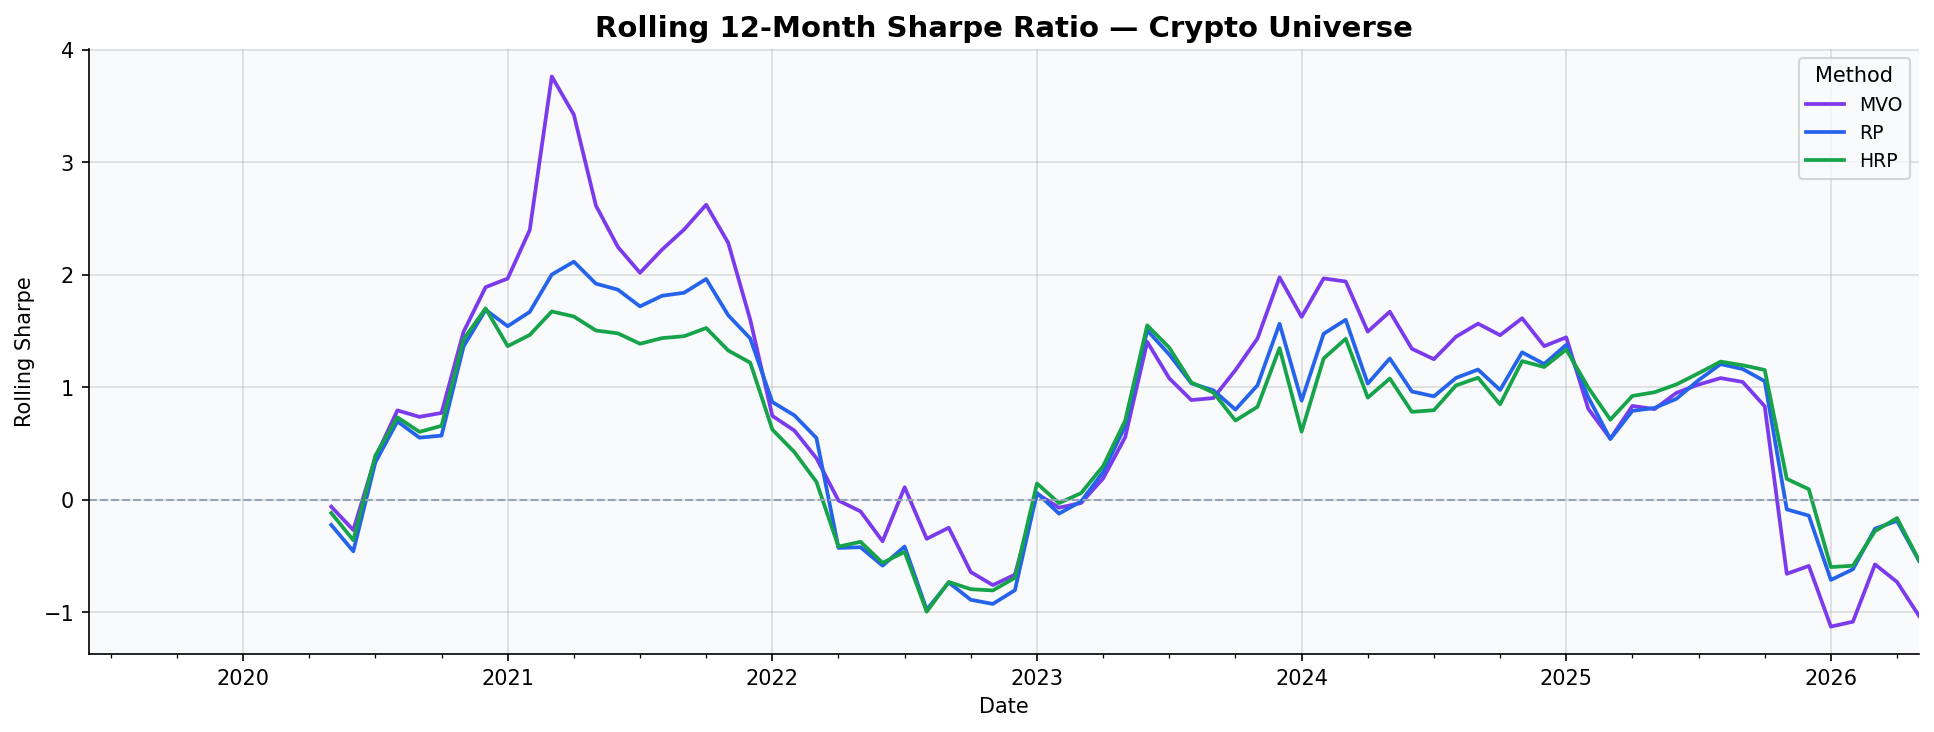
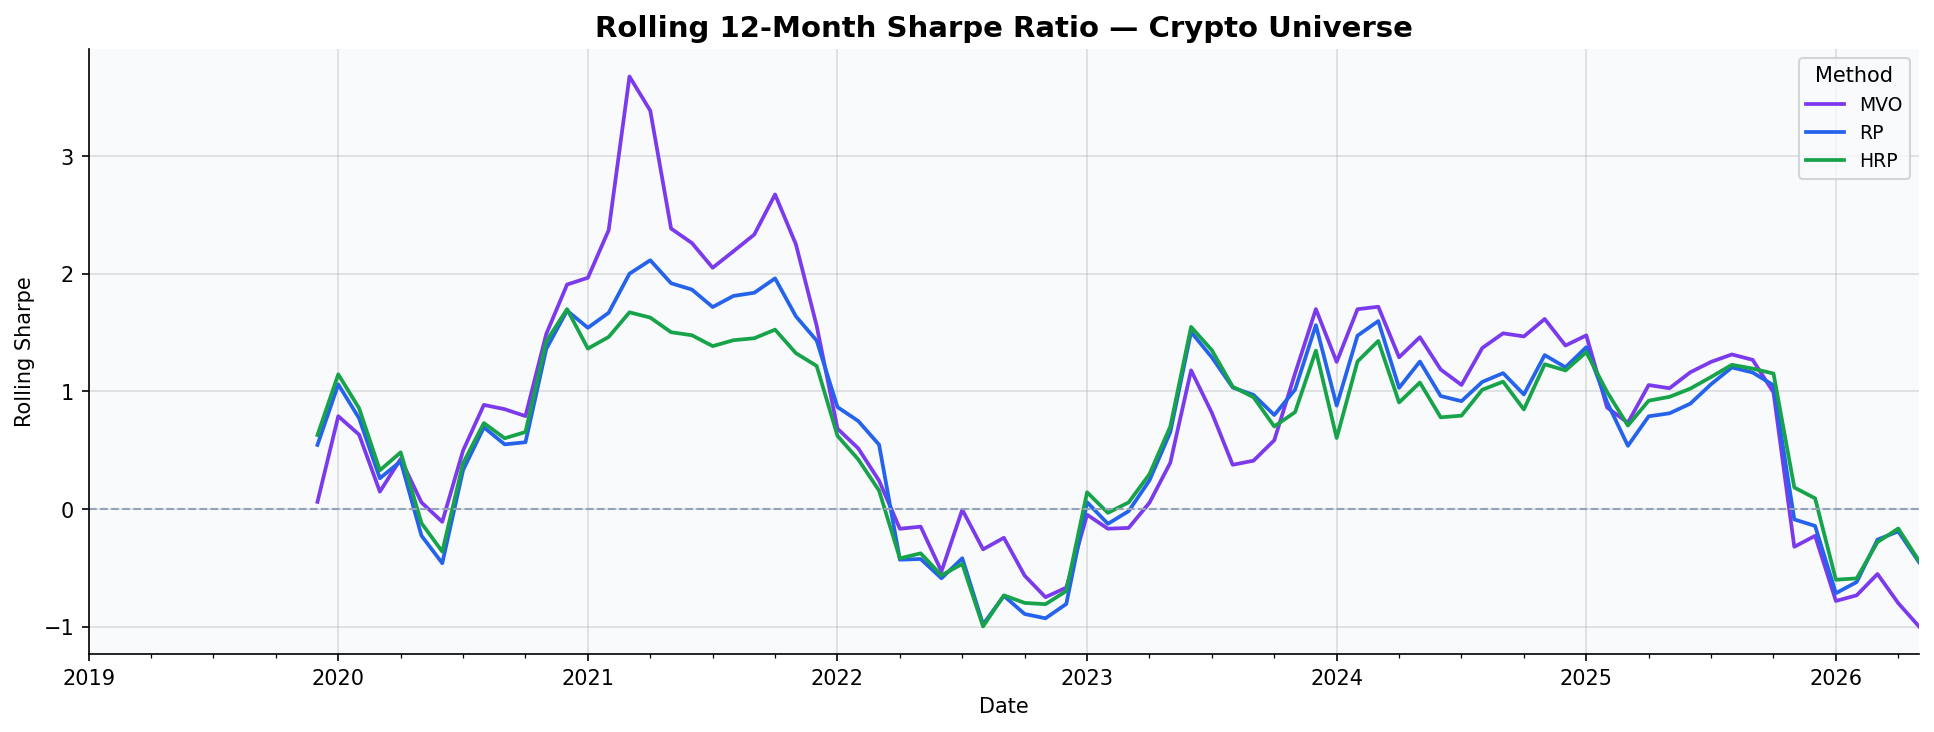
remove signal tilting calculation and validation plots

diff --git a/empirical_analysis.py b/empirical_analysis.py
@@ -9,9 +9,6 @@ from core import (
     download_prices,
     to_monthly_prices,
     compute_returns,
-    compute_momentum_signal,
-    compute_trend_signal,
-    combine_signals,
     run_backtest, 
     summary_table,
 )
@@ -62,194 +59,6 @@ def save_plot(filename):
     # plt.show()
     plt.close()
     print(f"  ✓ Saved: plots/{filename}")
-
-
-def print_signal_summary(combined_signal, momentum_signal, trend_signal, asset_labels, universe_name):
-    print("\n" + "═" * 60)
-    print(f"  SIGNAL VALIDATION — SUMMARY STATISTICS — {universe_name}")
-    print("═" * 60)
-
-    dispersion = combined_signal.std(axis=1)
-    ranks = combined_signal.rank(axis=1)
-    rank_chg = ranks.diff().abs().sum(axis=1).dropna()
-    avg_signal = combined_signal.mean(axis=1)
-
-    stats = {
-        "Mean combined signal":       avg_signal.mean(),
-        "Std combined signal (time)": avg_signal.std(),
-        "Mean cross-sect. dispersion": dispersion.mean(),
-        "Std cross-sect. dispersion":  dispersion.std(),
-        "Pct months signal > 0.5":    (avg_signal > 0.5).mean(),
-        "Mean ranking turnover":      rank_chg.mean(),
-        "Std ranking turnover":       rank_chg.std(),
-    }
-
-    for k, v in stats.items():
-        print(f"  {k:<38} {v:.4f}")
-
-    print("\n  Per-asset mean combined signal:")
-    per_asset = combined_signal.rename(columns=asset_labels).mean()
-    for asset, val in per_asset.items():
-        print(f"    {asset:<6}  {val:.4f}")
-
-    print("═" * 60 + "\n")
-
-
-# -----------------------------
-# 3. PLOTS (5.1 Signal Validation)
-# -----------------------------
-def plot_signal_heatmap(combined_signal, asset_labels, title, filename):
-    data = combined_signal.rename(columns=asset_labels).T
-
-    fig, ax = plt.subplots(figsize=(14, 3.8))
-    cmap = sns.diverging_palette(220, 20, as_cmap=True)
-
-    sns.heatmap(
-        data,
-        ax=ax,
-        cmap=cmap,
-        center=0.5,
-        vmin=0,
-        vmax=1,
-        linewidths=0.3,
-        linecolor="#E2E8F0",
-        cbar_kws={
-            "label": "Signal strength (0 = bearish · 1 = bullish)",
-            "shrink": 0.8,
-        },
-    )
-
-    n_cols = data.shape[1]
-    step = max(1, n_cols // 20)
-    ticks = range(0, n_cols, step)
-    labels = [data.columns[i].strftime("%Y-%m") for i in ticks]
-    ax.set_xticks([t + 0.5 for t in ticks])
-    ax.set_xticklabels(labels, rotation=45, ha="right", fontsize=9)
-    ax.set_yticklabels(ax.get_yticklabels(), rotation=0, fontsize=11)
-
-    ax.set_title(title, fontsize=14, fontweight="bold", pad=12)
-    ax.set_xlabel("Date", fontsize=10)
-    ax.set_ylabel("")
-
-    save_plot(filename)
-
-
-def plot_average_signal(momentum_signal, trend_signal, combined_signal, title, filename):
-    fig, axes = plt.subplots(3, 1, figsize=(13, 9), sharex=True)
-    fig.suptitle(title, fontsize=15, fontweight="bold", y=1.01)
-
-    # More interpretable than averaging ranks:
-    # share of assets with positive momentum at each date
-    momentum_breadth = (momentum_signal > 0).astype(float)
-
-    datasets = [
-        (momentum_breadth, "Momentum Breadth", "#2563EB"),
-        (trend_signal, "Trend Signal", "#16A34A"),
-        (combined_signal, "Combined Signal", "#7C3AED"),
-    ]
-
-    for ax, (data, label, color) in zip(axes, datasets):
-        mean_signal = data.mean(axis=1)
-        roll_mean = mean_signal.rolling(3).mean()
-
-        ax.fill_between(
-            mean_signal.index,
-            0.5,
-            mean_signal,
-            where=mean_signal >= 0.5,
-            alpha=0.25,
-            color=color,
-            label="_nolegend_",
-        )
-        ax.fill_between(
-            mean_signal.index,
-            mean_signal,
-            0.5,
-            where=mean_signal < 0.5,
-            alpha=0.25,
-            color="#DC2626",
-            label="_nolegend_",
-        )
-
-        ax.plot(mean_signal.index, mean_signal, color=color, alpha=0.55, linewidth=1.2, label="Monthly avg")
-        ax.plot(roll_mean.index, roll_mean, color=color, linewidth=2.0, label="3-month MA")
-        ax.axhline(0.5, color="#94A3B8", linestyle="--", linewidth=1)
-
-        ax.set_ylabel(label, fontsize=10, fontweight="bold")
-        ax.set_ylim(0, 1)
-        ax.legend(fontsize=9, loc="upper left")
-
-    axes[-1].set_xlabel("Date", fontsize=10)
-    save_plot(filename)
-
-
-# def plot_signal_dispersion(combined_signal, title, filename):
-#     dispersion = combined_signal.std(axis=1)
-
-#     fig, ax = plt.subplots(figsize=(13, 4.5))
-
-#     low_threshold = dispersion.quantile(0.25)
-#     low_share = (dispersion <= low_threshold).mean() * 100
-
-#     ax.fill_between(dispersion.index, 0, dispersion, alpha=0.2, color="#7C3AED")
-#     ax.plot(dispersion.index, dispersion, color="#7C3AED", linewidth=1.2, label="Monthly std")
-
-#     ax.axhline(
-#         low_threshold,
-#         color="#DC2626",
-#         linestyle=":",
-#         linewidth=1.3,
-#         label=f"25th pct ({low_threshold:.2f})",
-#     )
-
-#     ax.fill_between(
-#         dispersion.index,
-#         0,
-#         dispersion,
-#         where=dispersion <= low_threshold,
-#         alpha=0.35,
-#         color="#FCA5A5",
-#         label=f"Low differentiation ({low_share:.1f}%)",
-#     )
-
-#     # ax.set_xlim(left=pd.Timestamp("2018-01-01"))
-#     ax.set_title(title, fontsize=14, fontweight="bold")
-#     ax.set_ylabel("Std of combined signal across assets", fontsize=10)
-#     ax.set_xlabel("Date", fontsize=10)
-#     ax.legend(fontsize=9)
-
-#     save_plot(filename)
-
-
-def plot_ranking_turnover(combined_signal, title, filename):
-    ranks = combined_signal.rank(axis=1)
-    rank_changes = ranks.diff().abs().sum(axis=1).dropna()
-    roll_turn = rank_changes.rolling(3).mean()
-
-    fig, ax = plt.subplots(figsize=(13, 4.5))
-
-    ax.fill_between(rank_changes.index, 0, rank_changes, alpha=0.2, color="#D97706")
-    ax.plot(rank_changes.index, rank_changes, color="#D97706", alpha=0.5, linewidth=1.2, label="Monthly turnover")
-    ax.plot(roll_turn.index, roll_turn, color="#D97706", linewidth=2.2, label="3-month MA")
-
-    mean_turn = rank_changes.mean()
-    ax.axhline(mean_turn, color="#94A3B8", linestyle="--", linewidth=1.3, label=f"Mean ({mean_turn:.2f})")
-
-    ax.set_title(title, fontsize=14, fontweight="bold")
-    ax.set_ylabel("Sum of absolute rank changes across assets", fontsize=10)
-    ax.set_xlabel("Date", fontsize=10)
-    ax.legend(fontsize=9)
-
-    ax.text(
-        rank_changes.index[-1],
-        mean_turn * 1.08,
-        f"Avg: {mean_turn:.1f}",
-        fontsize=9,
-        color="#64748B",
-        ha="right",
-    )
-
-    save_plot(filename)
 
 
 
@@ -526,53 +335,15 @@ def run_signal_validation(tickers, start_date, lookback, ma_window, asset_labels
     prices = to_monthly_prices(prices_daily)
     print(f"  ✓ Done in {time.time() - t0:.1f}s — shape: {prices.shape}")
 
-    print("Step 2: Computing signals...")
-    t0 = time.time()
-    momentum = compute_momentum_signal(prices, lookback)
-    trend = compute_trend_signal(prices, ma_window)
-    combined_signal = combine_signals(momentum, trend).dropna()
-
-    momentum = momentum.reindex(combined_signal.index)
-    trend = trend.reindex(combined_signal.index)
-    monthly_returns = compute_returns(prices).reindex(combined_signal.index)
-
+    monthly_returns = compute_returns(prices)
 
     print(f"  ✓ Done in {time.time() - t0:.1f}s")
 
-    print_signal_summary(combined_signal, momentum, trend, asset_labels, universe_name)
-
-    print("Step 3: Generating plots...")
-    plot_signal_heatmap(
-        combined_signal,
-        asset_labels,
-        f"Combined Signal Heatmap — {universe_name}",
-        f"{file_prefix}_signal_heatmap.png",
-    )
-    plot_average_signal(
-        momentum,
-        trend,
-        combined_signal,
-        f"Average Signal Strength Over Time — {universe_name}",
-        f"{file_prefix}_signal_average.png",
-    )
-    # plot_signal_dispersion(
-    #     combined_signal,
-    #     f"Cross-Sectional Signal Dispersion — {universe_name}",
-    #     f"{file_prefix}_signal_dispersion.png",
-    # )
-    plot_ranking_turnover(
-        combined_signal,
-        f"Signal Ranking Turnover Over Time — {universe_name}",
-        f"{file_prefix}_signal_ranking_turnover.png",
-    )
-
-    print(f"\n✓ All plots 5.1 saved to /plots for {universe_name}")
 
     print("Step 4: Running allocation analysis...")
 
     returns_df, weights_dict = run_backtest(
         monthly_returns=monthly_returns,
-        combined_signal=combined_signal,
         window=36 if "ETF" in universe_name else 12,
     )
 

diff --git a/core.py b/core.py
@@ -57,12 +57,9 @@ def normalize_weights(weights):
     return weights
 
 
-def mvo_weights(train_returns, signal_tilt=None):
+def mvo_weights(train_returns):
     mu = train_returns.mean()
     cov = train_returns.cov()
-
-    if signal_tilt is not None:
-        mu = mu * signal_tilt.reindex(mu.index).fillna(1.0)
 
     try:
         raw = np.linalg.pinv(cov.values) @ mu.values
@@ -96,7 +93,7 @@ def hrp_weights(train_returns):
 # -----------------------------
 # 4. ROLLING BACKTEST
 # -----------------------------
-def run_backtest(monthly_returns, combined_signal, window):
+def run_backtest(monthly_returns, window):
     strategy_returns = {"MVO": [], "RP": [], "HRP": []}
     weights_history = {"MVO": [], "RP": [], "HRP": []}
     rebalance_dates = []
@@ -105,9 +102,7 @@ def run_backtest(monthly_returns, combined_signal, window):
         train = monthly_returns.iloc[t - window:t]
         next_ret = monthly_returns.iloc[t + 1]
 
-        signal_t = combined_signal.iloc[t].reindex(train.columns)
-
-        w_mvo = mvo_weights(train, signal_tilt=signal_t)
+        w_mvo = mvo_weights(train)
         w_rp = risk_parity_weights(train)
         w_hrp = hrp_weights(train)
 
@@ -217,41 +212,4 @@ def summary_table(returns_df, weights_dict):
 #     ax.set_ylabel("Growth of 1€")
 #     ax.grid(True)
 
-#     plt.show()
-
-
-# def plot_drawdowns(returns_df, title):
-#     fig, ax = plt.subplots(figsize=(10, 6))
-
-#     dd_df = pd.DataFrame(index=returns_df.index)
-
-#     for col in returns_df.columns:
-#         wealth = (1 + returns_df[col]).cumprod()
-#         dd_df[col] = wealth / wealth.cummax() - 1
-
-#     dd_df.plot(ax=ax)
-
-#     ax.set_title(title)
-#     ax.set_ylabel("Drawdown")
-#     ax.grid(True)
-
-#     plt.show()
-
-
-# def plot_weights_over_time(weights_dict):
-#     methods = list(weights_dict.keys())
-
-#     fig, axes = plt.subplots(3, 1, figsize=(14, 12), sharex=True)
-
-#     for i, method in enumerate(methods):
-#         weights = weights_dict[method]
-#         weights.plot(ax=axes[i])
-#         axes[i].set_title(f"{method} Weights Over Time")
-#         axes[i].set_ylabel("Weight")
-#         axes[i].set_ylim(0, 1)
-#         axes[i].grid(True)
-
-#     axes[-1].set_xlabel("Date")
-
-#     plt.tight_layout()
 #     plt.show()
